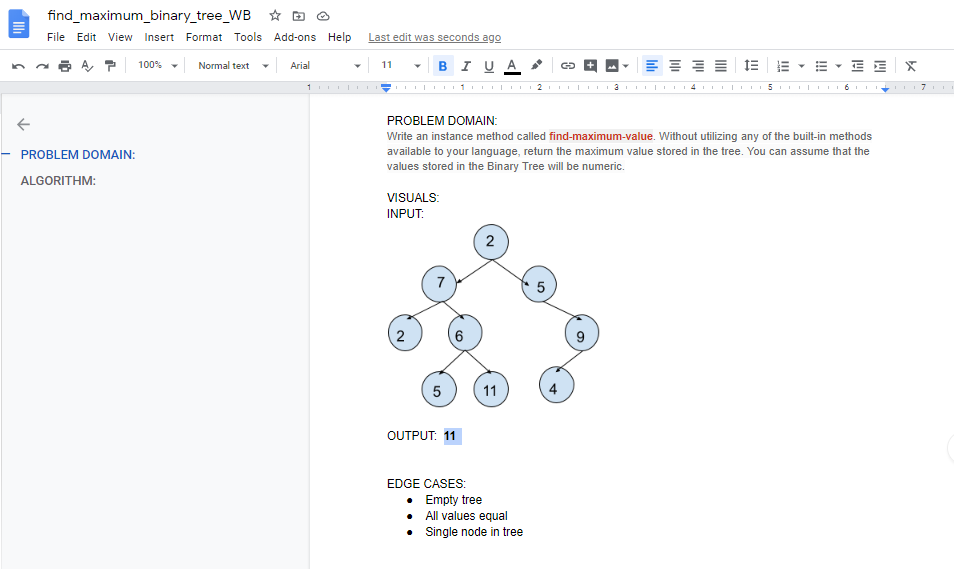
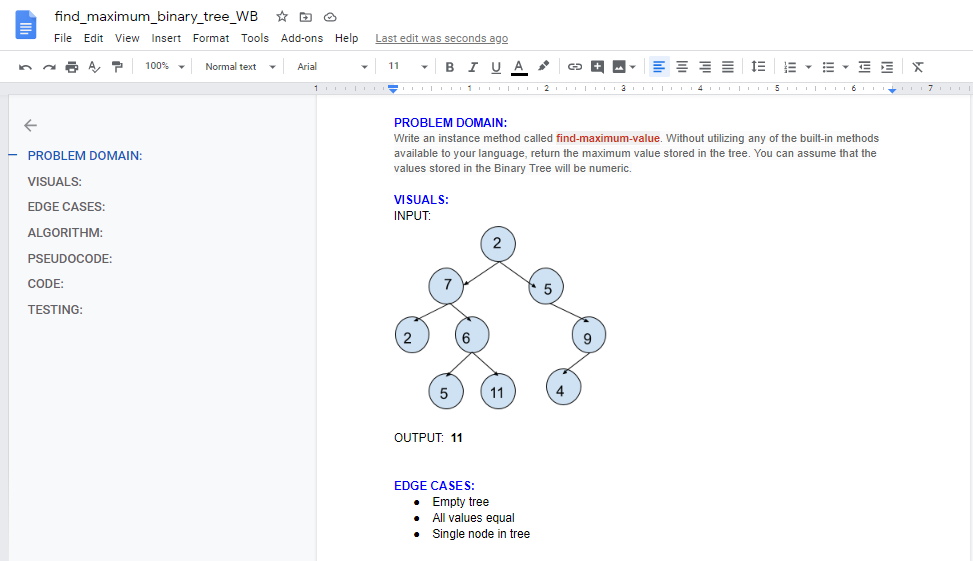
Completed code and testing for CC-16, BT find_max_val; updated project README.

diff --git a/tests/challenges/test_find_max_value.py b/tests/challenges/test_find_max_value.py
@@ -4,6 +4,7 @@ from dsna_py.challenges.cc_16_binary_tree_find_max.find_max_value import find_ma
 from dsna_py.data_structures.cc_15_tree.tree import (
     TreeNode,
     BinaryTree,
+    BinarySearchTree,
 )
 
 
@@ -11,7 +12,7 @@ def test_find_max_val_exists():
     assert find_maximum_value
 
 
-@pytest.mark.skip
+# @pytest.mark.skip
 def test_empty_tree_instantiates():
     tree = BinaryTree()
     expected = None
@@ -32,18 +33,40 @@ def simple_tree():
     return st
 
 
-@pytest.mark.skip
-def test_trial_tree_instantiates(simple_tree):
-    poltree = simple_tree
-    expected = 3
-    actual = poltree.root_node.value
-    assert actual == expected
+@pytest.fixture
+def simple_bst():
+    #build a binary tree of three nodes in two levels
+    sbst = BinarySearchTree()
+    curr_root = TreeNode(3)
+    root_left = TreeNode(1)
+    root_right = TreeNode(7)
+    curr_root.left_child = root_left
+    curr_root.right_child = root_right
+    sbst.root_node = curr_root
+    return sbst
 
 
-@pytest.mark.skip
+# @pytest.mark.skip
+def test_trial_tree_fail(simple_tree):
+    failtree = simple_tree
+    expected = 1
+    actual = failtree.root_node.value
+    assert actual != expected
+
+
+# @pytest.mark.skip
 def test_max_val_passes(simple_tree):
     ttree = simple_tree
     expected = 7
     actual = find_maximum_value(ttree)
     assert actual == expected
+
+
+def test_find_new_max_passes(simple_bst):
+    mtree = simple_bst
+    mtree.add(12)
+    expected = 12
+    actual = find_maximum_value(mtree)
+    assert actual == expected
+
 

diff --git a/dsna_py/challenges/cc_16_binary_tree_find_max/find_max_value.py b/dsna_py/challenges/cc_16_binary_tree_find_max/find_max_value.py
@@ -3,6 +3,21 @@ from dsna_py.data_structures.cc_15_tree.tree import (
     BinaryTree,
 )
 
-def find_maximum_value():
-    pass
+def find_maximum_value(tree):
+    max_val = -1
+    def walk(curr_node):
+        nonlocal max_val
+        if not curr_node:
+            return
+        if curr_node.value > max_val:
+            max_val = curr_node.value
+        # Traverse left
+        walk(curr_node.left_child)
+        # Traverse right
+        walk(curr_node.right_child)
+
+        return max_val
+
+    return walk(tree.root_node)
+
 

diff --git a/dsna_py/data_structures/cc_15_tree/tree.py b/dsna_py/data_structures/cc_15_tree/tree.py
@@ -124,8 +124,6 @@ class BinarySearchTree(BinaryTree):
             if not curr_node:
                 return False
 
-            print(curr_node.value)
-
             # If value found, return True
             if value == curr_node.value:
                 return True

diff --git a/dsna_py/challenges/cc_16_binary_tree_find_max/README.md b/dsna_py/challenges/cc_16_binary_tree_find_max/README.md
@@ -9,27 +9,28 @@ Utilize the __Call Stack__ for the traversal method:
 __Big O space complexity__ for this approach is __`O(1)`__ <br>
 __Big O time complexity__ for this approach is __`O(n)`__ <br>
 
-My code is [here]()
+My code is [here](./find_max_value.py)
 
 ## Solution
 ![B-Tree find_max whiteboard image 1](./assets/find_max_binary_tree_WB_1.png)
 ![B-Tree find_max whiteboard image 2](./assets/find_max_binary_tree_WB_2.png)
+![B-Tree find_max whiteboard image 3](./assets/find_max_binary_tree_WB_3.png)
 
 ## ATTRIBUTIONS:
-
+__Skyler Burger__ helped with debugging code for failed test.
 <br>
 
 #### Checklist:
 
  - [X] Top-level README “Table of Contents” is updated
- - [ ] Feature tasks for this challenge are completed
- - [ ] Unit tests written and passing
-     - [ ] “Happy Path” - Expected outcome
-     - [ ] Expected failure
-     - [ ] Edge Case (if applicable/obvious)
- - [ ] README for this challenge is complete
-     - [ ] Summary, Description, Approach & Efficiency, Solution
-     - [ ] Link to code
-     - [ ] Picture of whiteboard
+ - [X] Feature tasks for this challenge are completed
+ - [X] Unit tests written and passing
+     - [X] “Happy Path” - Expected outcome
+     - [X] Expected failure
+     - [X] Edge Case (if applicable/obvious)
+ - [X] README for this challenge is complete
+     - [X] Summary, Description, Approach & Efficiency, Solution
+     - [X] Link to code
+     - [X] Pictures of whiteboard
 
 ###### Submission PR:  
